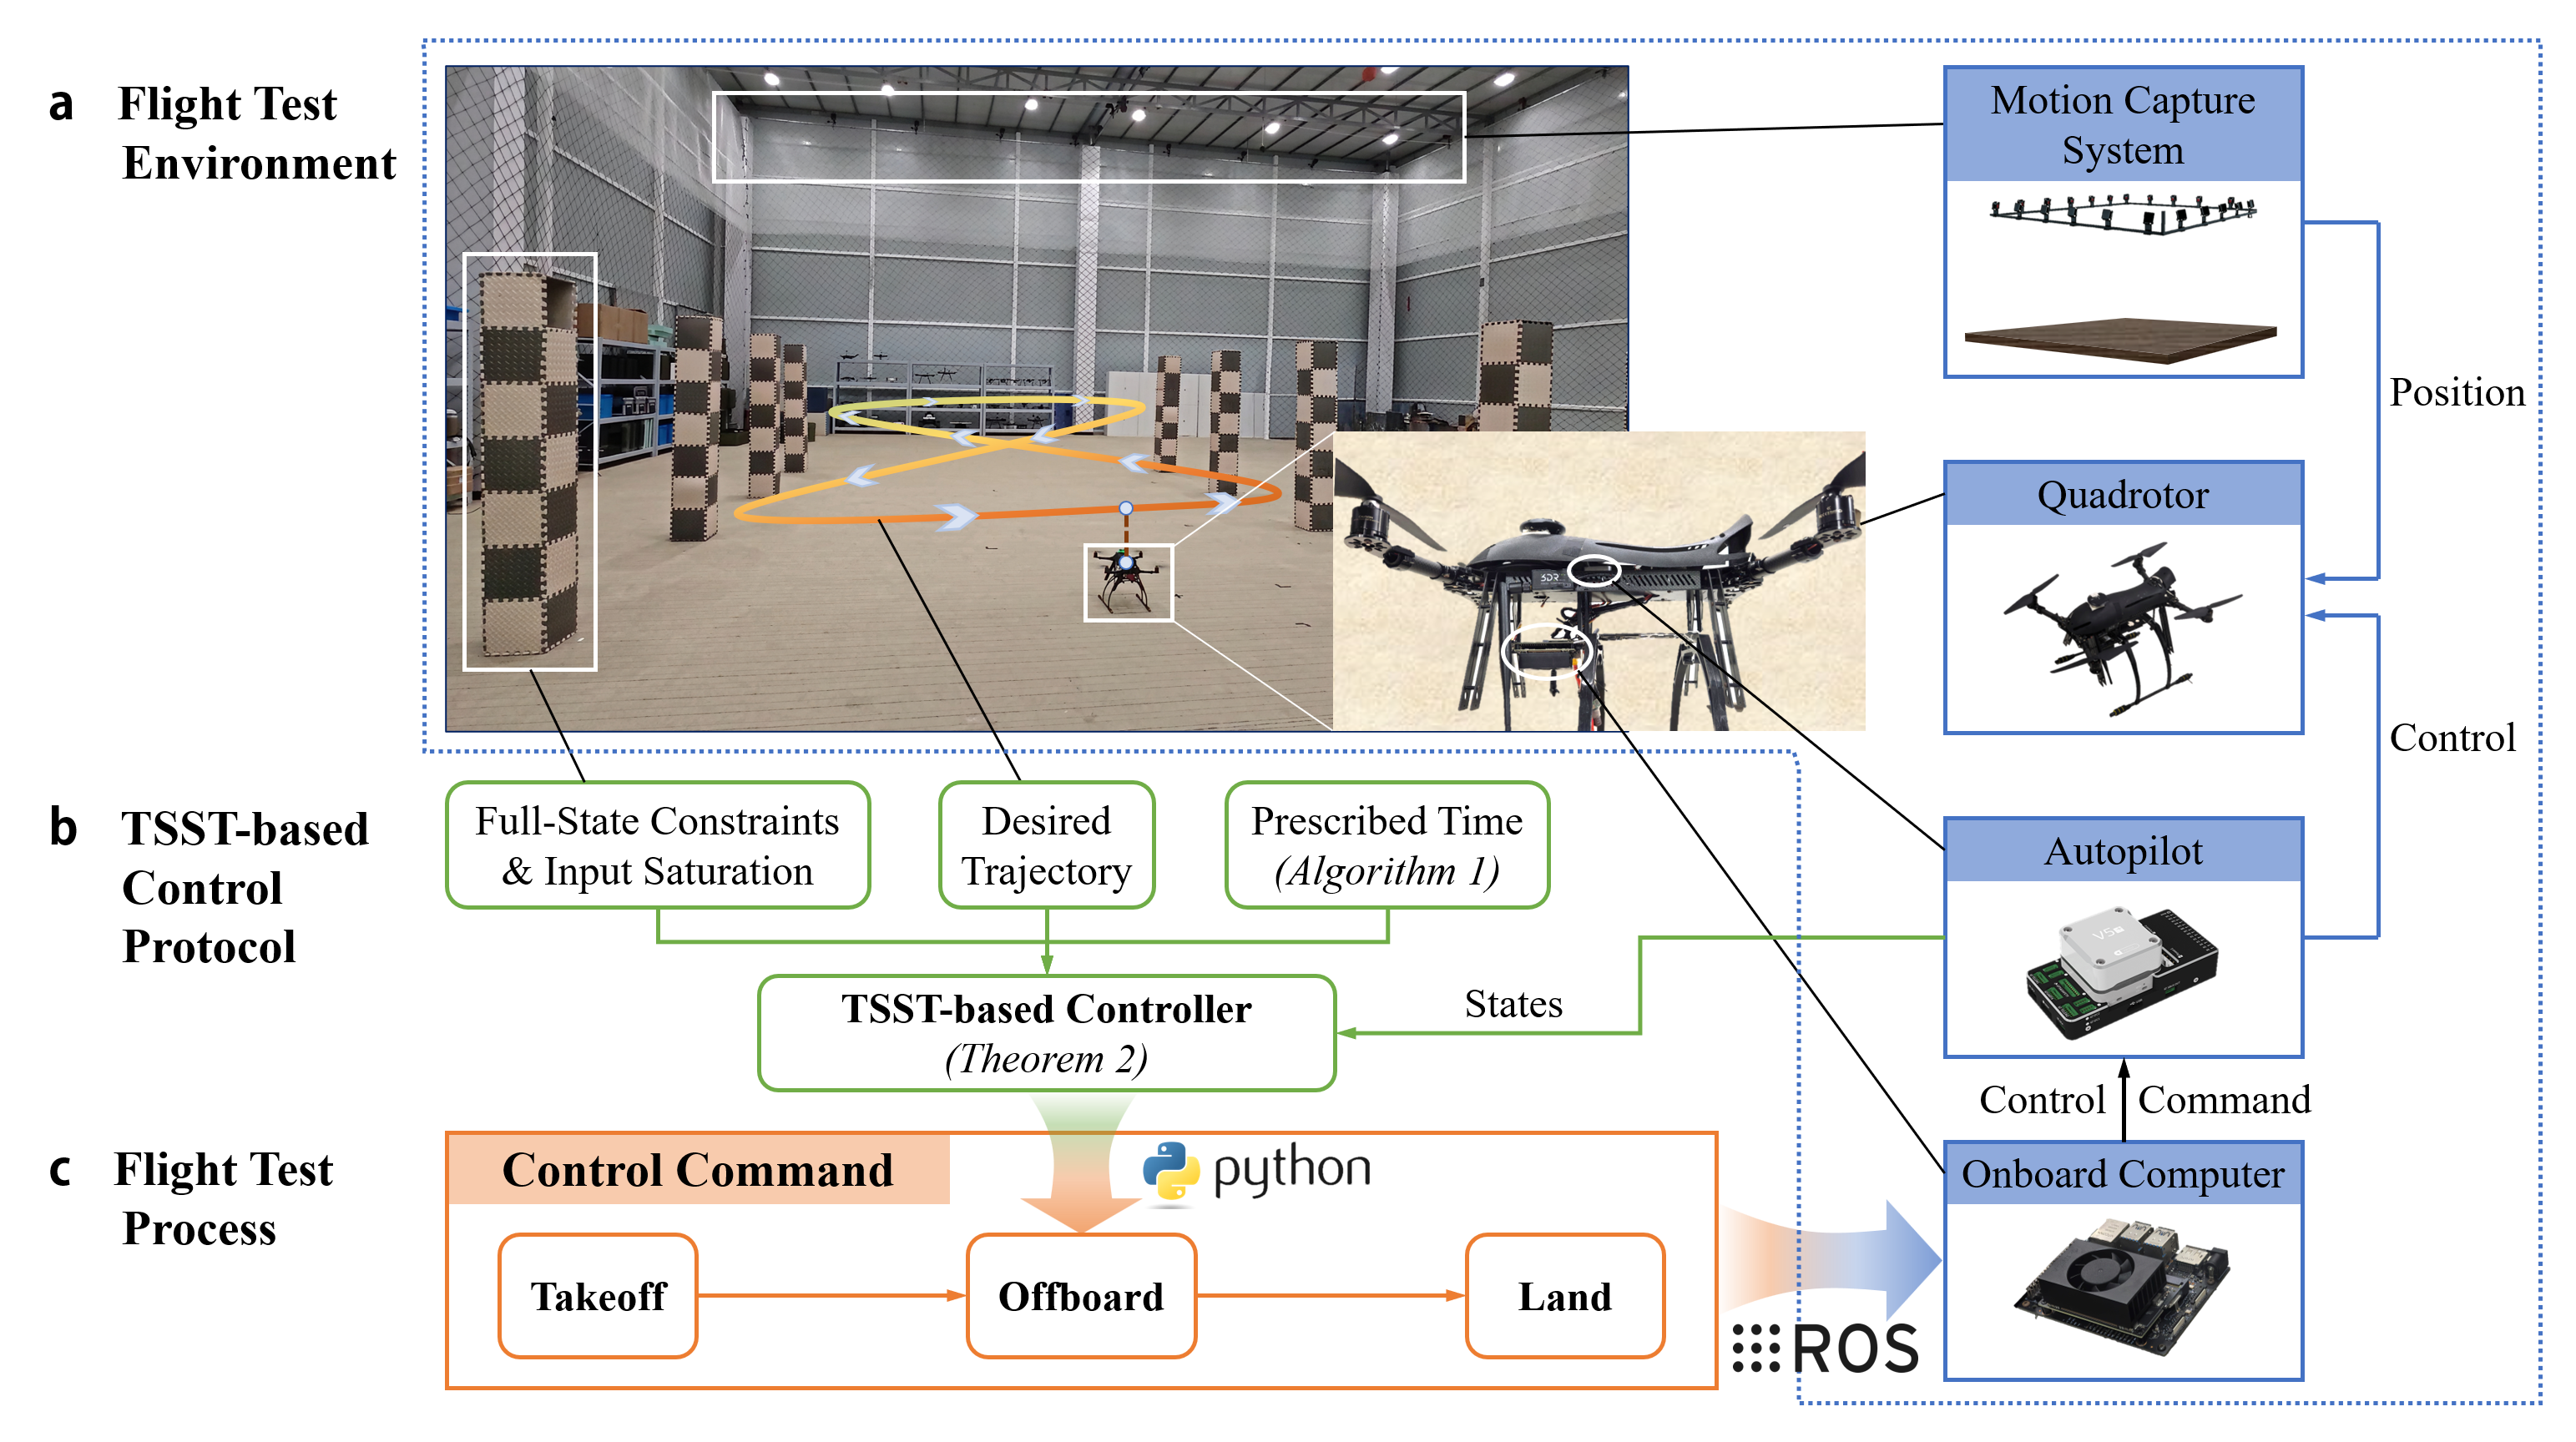
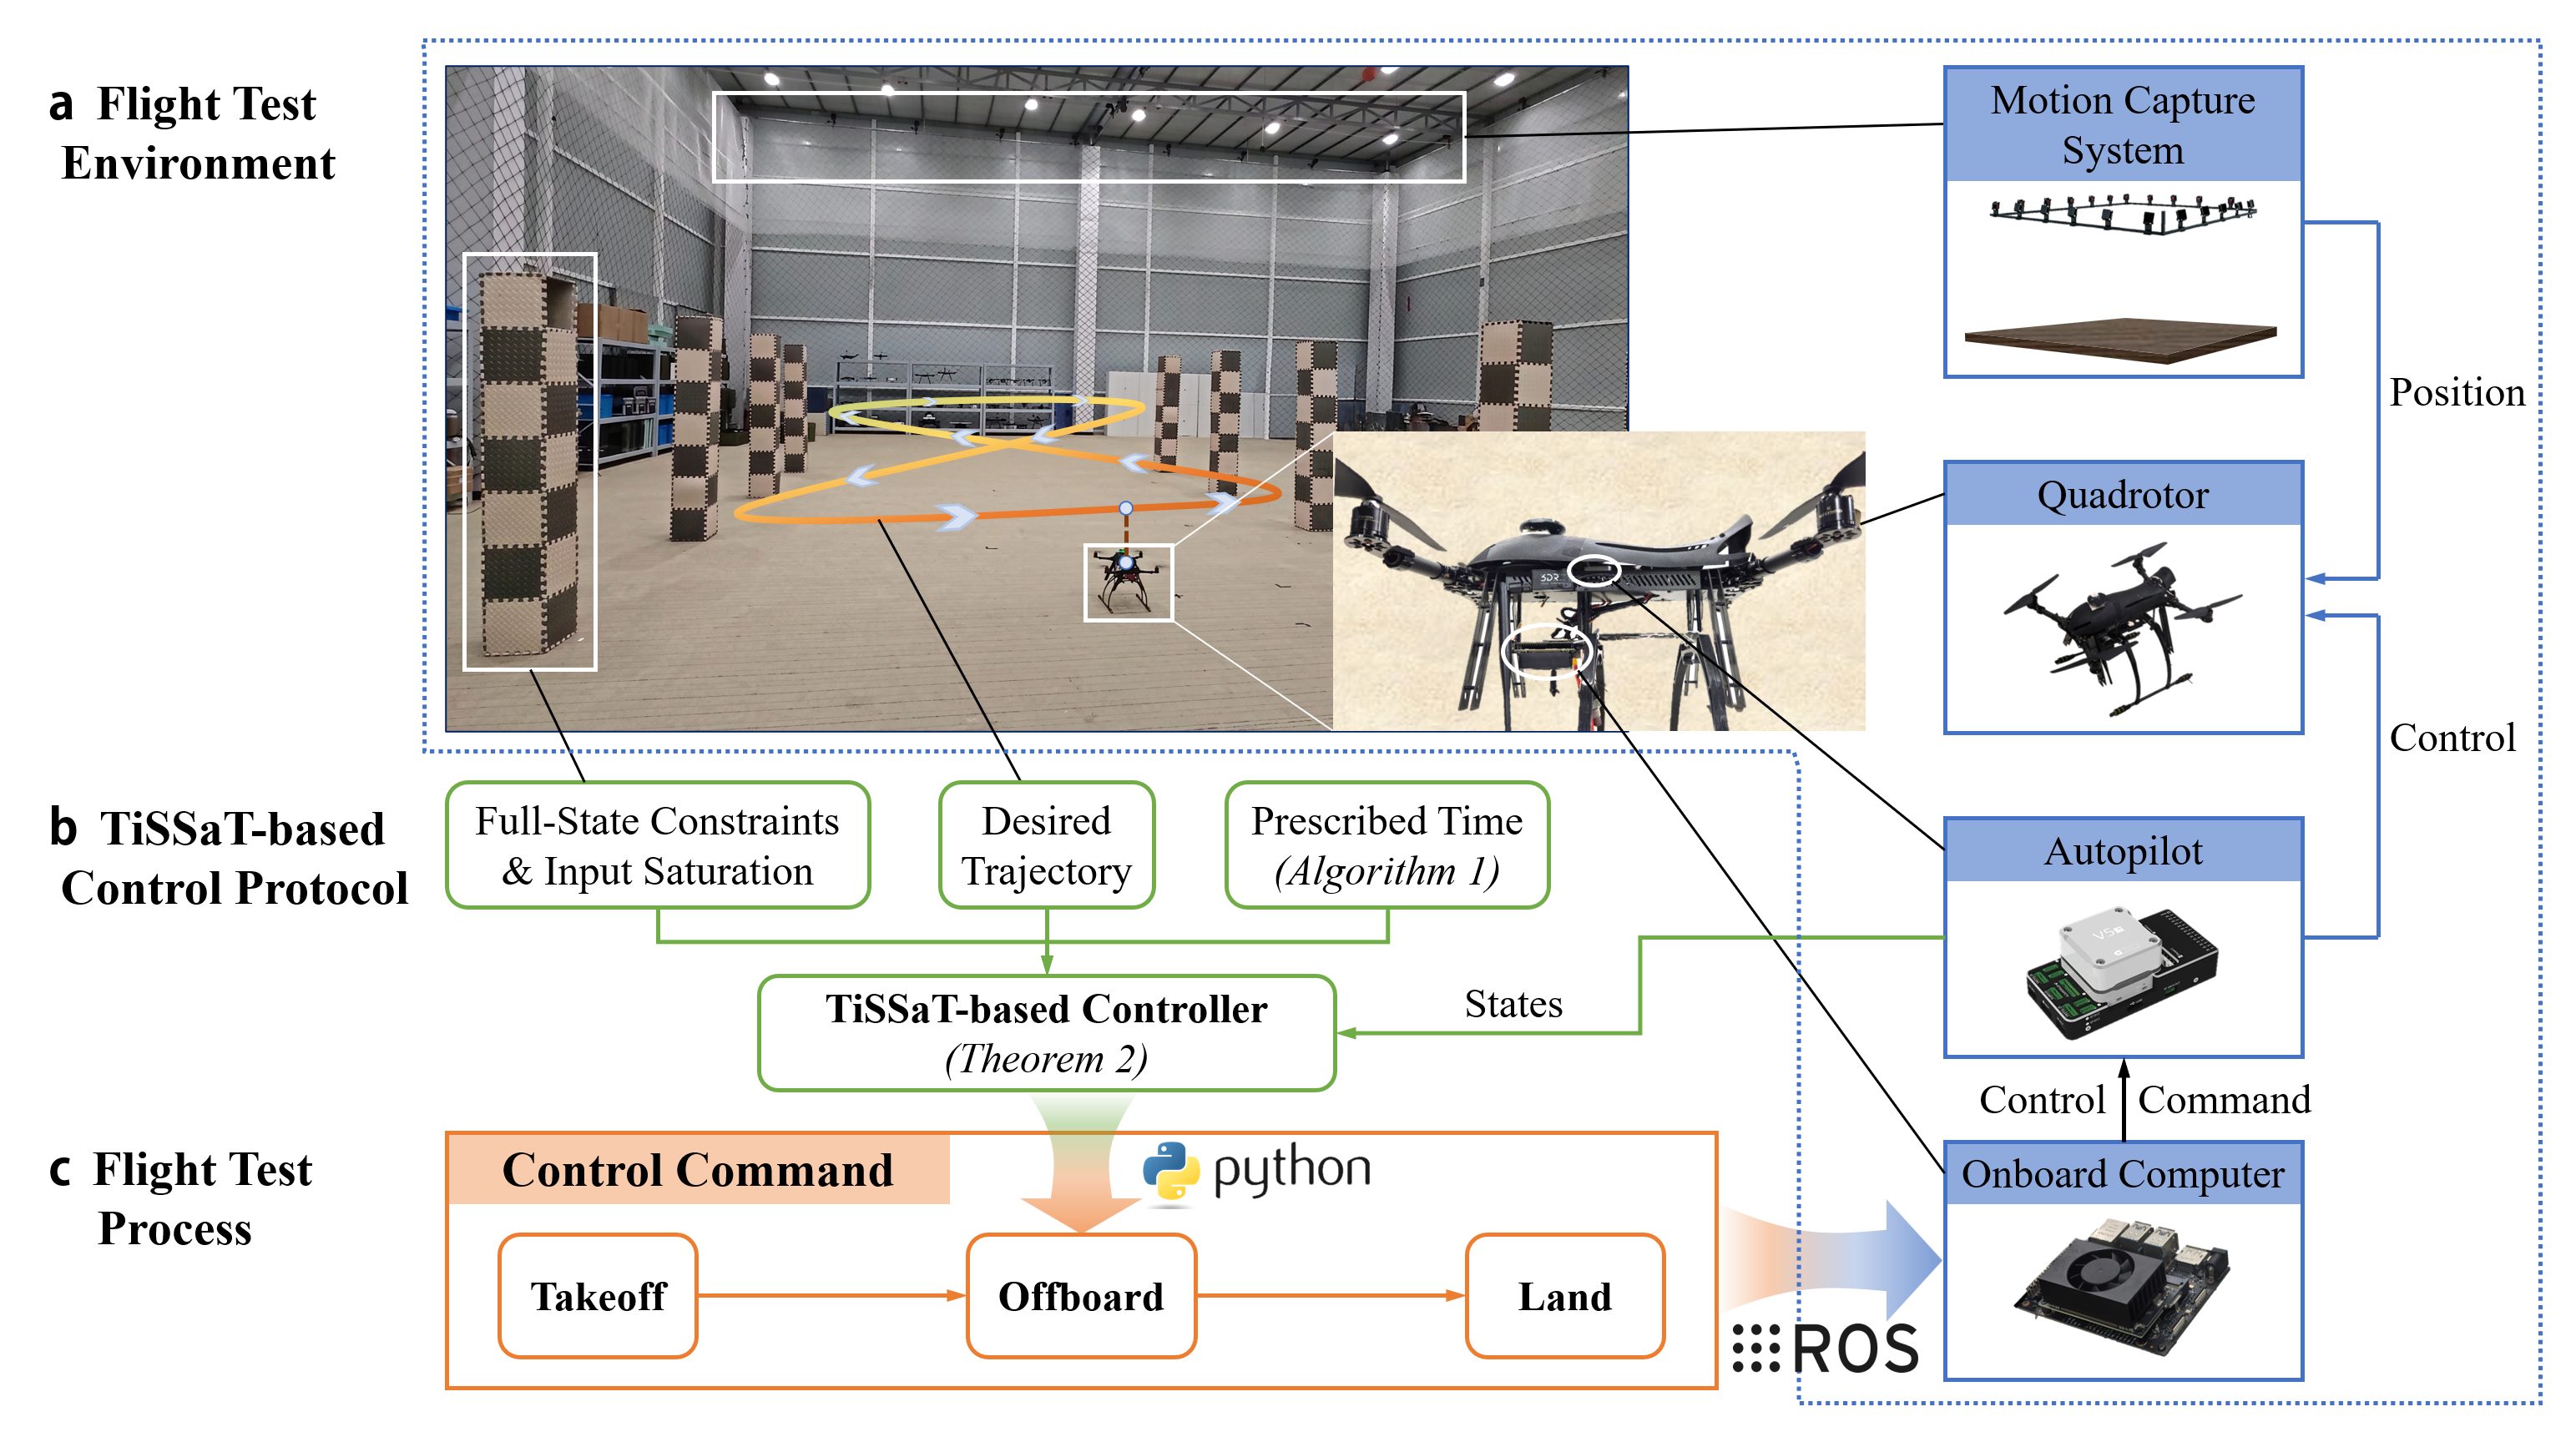
update TiSSaT

diff --git a/index.html b/index.html
@@ -6,11 +6,11 @@
   
   <!-- Primary Meta Tags -->
   <!-- TODO: Replace with your paper title and author names -->
-  <meta name="title" content="TSST">
+  <meta name="title" content="TiSSaT">
   <!-- TODO: Write a compelling 150-160 character description of your research -->
   <!-- <meta name="description" content="BRIEF_DESCRIPTION_OF_YOUR_RESEARCH_CONTRIBUTION_AND_FINDINGS"> -->
   <!-- TODO: Add 5-10 relevant keywords for your research area -->
-  <meta name="keywords" content="Time-scaling state transformation (TSST), spatio-temporal control, full-state constraints, quadrotor, tracking control">
+  <meta name="keywords" content="Time-scaling state transformation (TiSSaT), spatio-temporal control, full-state constraints, quadrotor, tracking control">
   <!-- TODO: List all authors -->
   <meta name="author" content="Jiayi Zheng, Shulong Zhao, Xiangke Wang, Hao Chen, Zhiqiang Miao, Xinwang Liu">
   <meta name="robots" content="index, follow">
@@ -74,7 +74,7 @@
 
 
   <!-- TODO: Replace with your paper title and authors -->
-  <title>TSST</title>
+  <title>TiSSaT</title>
   
   <!-- Favicon and App Icons -->
   <link rel="icon" type="image/x-icon" href="static/images/logo.png">
@@ -248,7 +248,7 @@
         <div class="columns is-centered">
           <div class="column has-text-centered">
             <!-- TODO: Replace with your paper title -->
-            <h1 class="title is-1 publication-title">Spatio-Temporal Control subject to Full-State Constraints: A Time-Scaling State Transformation (TSST) Approach</h1>
+            <h1 class="title is-1 publication-title">TiSSaT: A Time-Scaling State Transformation Approach for Spatio-Temporal Control under Constraints</h1>
             <div class="is-size-5 publication-authors">
               <!-- TODO: Replace with your paper authors and their personal links -->
               <span class="author-block">
@@ -268,7 +268,7 @@
 
                   <div class="is-size-5 publication-authors">
                     <!-- TODO: Replace with your institution and conference/journal info -->
-                    <span class="author-block"><sup>1</sup>College of Intelligence Science and Technology, National University of Defense Technology, China<br>submitted to <i>IEEE Transactions on Robotics</i></span>
+                    <span class="author-block">College of Intelligence Science and Technology, National University of Defense Technology, China<br>submitted to <i>IEEE Transactions on Robotics</i></span>
                     <!-- <span class="author-block"><sup>2</sup>State Key Laboratory for Turbulence and Complex Systems, School	of Advanced Manufacturing and Robotics, College of Engineering, Peking University, China</span> -->
                     <!-- <span class="author-block"><sup>3</sup>School of Computer, National University of Defense Technology, China<br>Conference name and year</span> -->
                     <!-- TODO: Remove this line if no equal contribution -->
@@ -301,7 +301,7 @@
 
                   <!-- TODO: Replace with your GitHub repository URL -->
                   <span class="link-block">
-                    <a href="https://github.com/brenda-Zheng/TSST-based-Spatio-Temporal-Control" target="_blank"
+                    <a href="https://github.com/brenda-Zheng/TiSSaT" target="_blank"
                     class="external-link button is-normal is-rounded is-dark">
                     <span class="icon">
                       <i class="fab fa-github"></i>
@@ -336,11 +336,11 @@
       <!-- TODO: Replace with your teaser video -->
       <video poster="" id="tree" autoplay controls muted loop height="100%" preload="metadata">
         <!-- TODO: Add your video file path here -->
-        <source src="static/videos/TSST.mp4" type="video/mp4">
+        <source src="static/videos/TiSSaT.mp4" type="video/mp4">
       </video>
       <!-- TODO: Replace with your video description -->
       <h2 class="subtitle has-text-centered">
-        Flight tests are conducted on a quadrotor to further evaluate the feasibility of the proposed TSST-based control protocol in practical scenarios with full-state constraints, input saturation, and external uncertainties.
+        Flight tests are conducted on a quadrotor to evaluate the feasibility of the proposed TiSSaT-based control protocol in practical scenarios with full-state constraints, input saturation, and external uncertainties.
       </h2>
     </div>
   </div>
@@ -356,10 +356,10 @@
         <div class="content has-text-justified">
           <!-- TODO: Replace with your paper abstract -->
           <p>
-            In this paper, a time-scaling state transformation (TSST) is proposed to address the coupled challenges of state constraints, input saturation, uncertainties, and stringent settling time requirements in robotic tasks. 
-            At its core, the TSST embeds constraint satisfaction into the algebraic problem of state-space transformation, thereby converting the constrained system from the \(t\)-domain into an equivalent unconstrained one in the \(s\)-domain. 
-            Built upon this transformation, a TSST-based control protocol is developed for robotic systems, which accommodates diverse constraint scenarios and guarantees convergence within a prescribed time. 
-            Furthermore, the range of prescribed settling time is rigorously derived via geometric analysis to ensure the feasibility of proposed TSST-based control protocol under multiple constraints. 
+            In this paper, a time-scaling state transformation (TiSSaT) is proposed to address coupled challenges of state constraints, input saturation, uncertainties, and stringent settling time requirements in robotic tasks. 
+            At its core, TiSSaT embeds constraint satisfaction into the algebraic problem of state-space transformation, thereby converting the constrained system from the \(t\)-domain into an equivalent unconstrained one in the \(s\)-domain. 
+            Built upon this transformation, a TiSSaT-based control protocol is developed for robotic systems, which accommodates diverse constraint scenarios and guarantees convergence within a prescribed time. 
+            Furthermore, the range of prescribed settling time is rigorously derived via geometric analysis to ensure the feasibility of proposed TiSSaT-based control protocol under multiple constraints. 
             Finally, comprehensive comparative simulations validate the rationality of derived prescribed time and emphasize the strengths of proposed protocol in handling spatial and temporal constraints in a unified scheme. 
             The flight test results illustrate that the quadrotor achieves spatio-temporal convergence under full-state constraints, input saturation, and external uncertainties, which further underscores the consistence between theory and experiment.
           </p>
@@ -375,15 +375,15 @@
 <section class="hero teaser">
   <div class="hero-body">
     <div class="container">
-      <h2 class="title is-3"><center>TSST-based control diagram</center></h2>
+      <h2 class="title is-3"><center>TiSSaT-based control diagram</center></h2>
        <div class="hero-body">
          <center>
           <!-- TODO: Replace with your research result images -->
-          <img width=80% src="static/images/control_framework.png" alt="Control diagram of the proposed TSST-based control protocol." loading="lazy"/>
+          <img width=80% src="static/images/control_framework.png" alt="Control diagram of the proposed TiSSaT-based control protocol." loading="lazy"/>
           <!-- TODO: Replace with description of this result -->
           <p>
-            A TSST-based controller is proposed for robotic systems to achieve spatio-temporal convergence. The controller is designed in the \(s\)-domain by global Lyapunov functions, where the constrained system in the \(t\)-domain is mapped to an unconstrained one in the \(s\)-domain by the TSST. 
-            The range of prescribed time is imposed by multiple spatial constraints, which provides a priori guarantee for the feasible design of TSST-based controllers, thereby ensuring the reliable execution of spatio-temporal tracking tasks under complex constraints.
+            A TiSSaT-based controller is proposed for robotic systems to achieve spatio-temporal convergence. The controller is designed in the \(s\)-domain by global Lyapunov functions, where the constrained system in the \(t\)-domain is mapped to an unconstrained one in the \(s\)-domain by TiSSaT. 
+            The range of prescribed time is imposed by multiple spatial constraints, which provides a priori guarantee for the feasible design of TiSSaT-based controllers, thereby ensuring the reliable execution of spatio-temporal tracking tasks under complex constraints.
           </p>
          </center>
       </div>
@@ -423,7 +423,7 @@
             Tracking performances under 6 constrained scenarios. <b>a</b> lists constrained settings. <b>b</b>-<b>g</b> correspond to the states and control inputs of <i>Scen.</i> 1)-<i>Scen.</i> 6), respectively.
           </p>
           <h2 class="subtitle has-text-left">
-            <br>The proposed TSST-based control protocol ensures the convergence of tracking error within a prescribed time, and <b>the system can only track the desired trajectory when \(T_f>T_{f\min}\) is satisfied.</b> 
+            <br>The proposed TiSSaT-based control protocol ensures the convergence of tracking error within a prescribed time, and <b>the system can only track the desired trajectory when \(T_f>T_{f\min}\) is satisfied.</b> 
             The range of prescribed time \(T_{f\min}\) is innovatively derived from geometric analysis under multiple constraints, which is closely correlated to full-state constraints, input saturation, and unknown uncertainties. 
           </h2>
          </center>
@@ -440,9 +440,9 @@
             <b>b</b>-<b>e</b> correspond to the convergence of \(x_1(t)\), \(x_2(t)\), \(u=x_3(t)\), and \(\alpha_3(t)\), respectively.
           </p>
           <h2 class="subtitle has-text-left">
-            <br>In accordance with the form of the employed time-varying function, for a given time instant, as the regulated factor \(p\) increases, the value of \(\mu(t)\) decreases. Then, the control input magnitudes of the proposed TSST-based controller are attenuated. 
+            <br>In accordance with the form of the employed time-varying function, for a given time instant, as the regulated factor \(p\) increases, the value of \(\mu(t)\) decreases. Then, the control input magnitudes of the proposed TiSSaT-based controller are attenuated. 
             The effect of regulated factor \(p\) of the time-varying function \(\mu(t)=1/(T_f-t)^p\) on the convergence rate and the control input magnitude is consistent with the conclusion in our previous work <a href="https://ieeexplore.ieee.org/document/10818981">Zhao et al. (2025)</a>. 
-            This indicates that <b>the TSST-based solution in the infinite \(s\)-domain is identical to the original system's solution on a given finite \(t\)-domain.</b> An appropriately reduced control input magnitude diminishes the switching frequency of control direction, thereby allowing the convergence of tracking errors more rapidly.
+            This indicates that <b>the TiSSaT-based solution in the infinite \(s\)-domain is identical to the original system's solution on a given finite \(t\)-domain.</b> An appropriately reduced control input magnitude diminishes the switching frequency of control direction, thereby allowing the convergence of tracking errors more rapidly.
           </h2>
          </center>
       </div>
@@ -454,11 +454,11 @@
           <img width=80% src="static/images/fig3.png" alt="Control Performances under 6 Constrained Scenarios." loading="lazy"/>
           <!-- TODO: Replace with description of this result -->
           <p>
-            Tracking performance comparison with prescribed-time output-constrained method [21] and PT-PPC approach [22]. <b>a</b> lists simulation settings and comparison of [21], [22], and proposed TSST-based control protocol. 
+            Tracking performance comparison with prescribed-time output-constrained method [21] and PT-PPC approach [22]. <b>a</b> lists simulation settings and comparison of [21], [22], and proposed TiSSaT-based control protocol. 
             <b>b</b>-<b>c</b> depict tracking errors and control inputs of different methods, respectively. <b>d</b>-<b>f</b> correspond to the comparisons of tracking performance with [21], [22]-C1, and [22]-C2, respectively.
           </p>
           <h2 class="subtitle has-text-left">
-            <br>Unlike existing methods, the proposed TSST-based control protocol uniformly maps the constrained system in the \(t\)-domain to an unconstrained one in the \(s\)-domain. 
+            <br>Unlike existing methods, the proposed TiSSaT-based control protocol uniformly maps the constrained system in the \(t\)-domain to an unconstrained one in the \(s\)-domain. 
             Moreover, <b>the derived range of prescribed time balances the relationship among the three factors.</b> Together, they offer stronger adaptability and practical compliance.
           </h2>
          </center>
@@ -468,19 +468,19 @@
        <div class="hero-body">
          <center>
           <!-- TODO: Replace with your research result images -->
-          <img width=80% src="static/images/validation1.png" alt="Control diagram of the proposed TSST-based control protocol." loading="lazy"/>
+          <img width=80% src="static/images/validation1.png" alt="Control diagram of the proposed TiSSaT-based control protocol." loading="lazy"/>
           <!-- TODO: Replace with description of this result -->
           <p>
             Quadrotor-based flight test validation. A quadrotor equipped with an IMU, an autopilot, and an onboard computer is employed for trajectory tracking. The onboard computer is a Jetson Orin NX laptop and the autopilot is a CUAV V5+, which are responsible for high-level control algorithm computation and low-level flight execution, respectively. 
             A motion capture system is utilized to provide the position of quadrotor. The flight test process follows a three-stage workflow: takeoff, offboard-mode trajectory tracking, and landing. 
-            Specifically, in the offboard mode, the proposed TSST-based controller runs on the onboard computer, computes control commands, and transmits them to the autopilot. 
+            Specifically, in the offboard mode, the proposed TiSSaT-based controller runs on the onboard computer, computes control commands, and transmits them to the autopilot. 
           </p>
          </center>
       </div>
        <div class="hero-body">
          <center>
           <!-- TODO: Replace with your research result images -->
-          <img width=90% src="static/images/flighttest.png" alt="Control diagram of the proposed TSST-based control protocol." loading="lazy"/>
+          <img width=90% src="static/images/flighttest.png" alt="Control diagram of the proposed TiSSaT-based control protocol." loading="lazy"/>
           <!-- TODO: Replace with description of this result -->
           <p>
             Tracking performances of the quadrotor in three constrained flight tests with four trials per test. The constraints in <i>FT.</i> 1) and <i>FT.</i> 3) are set as \(L_{x,1}=H_{x,1}=\infty\), \(L_{y,1}=6\), \(H_{y,1}=-1\), \(L_{x,2}=H_{x,2}=L_{y,2}=H_{y,2}=1\), and \(L_{x,3}=H_{x,3}=L_{y,3}=H_{y,3}=20\), while the eased constraints in <i>FT.</i> 2) are \(L_{x,1}=H_{x,1}=\infty\), \(L_{y,1}=6.5\), \(H_{y,1}=-0.5\), \(L_{x,2}=H_{x,2}=L_{y,2}=H_{y,2}=1.8\), and \(L_{x,3}=H_{x,3}=L_{y,3}=H_{y,3}=25\). 